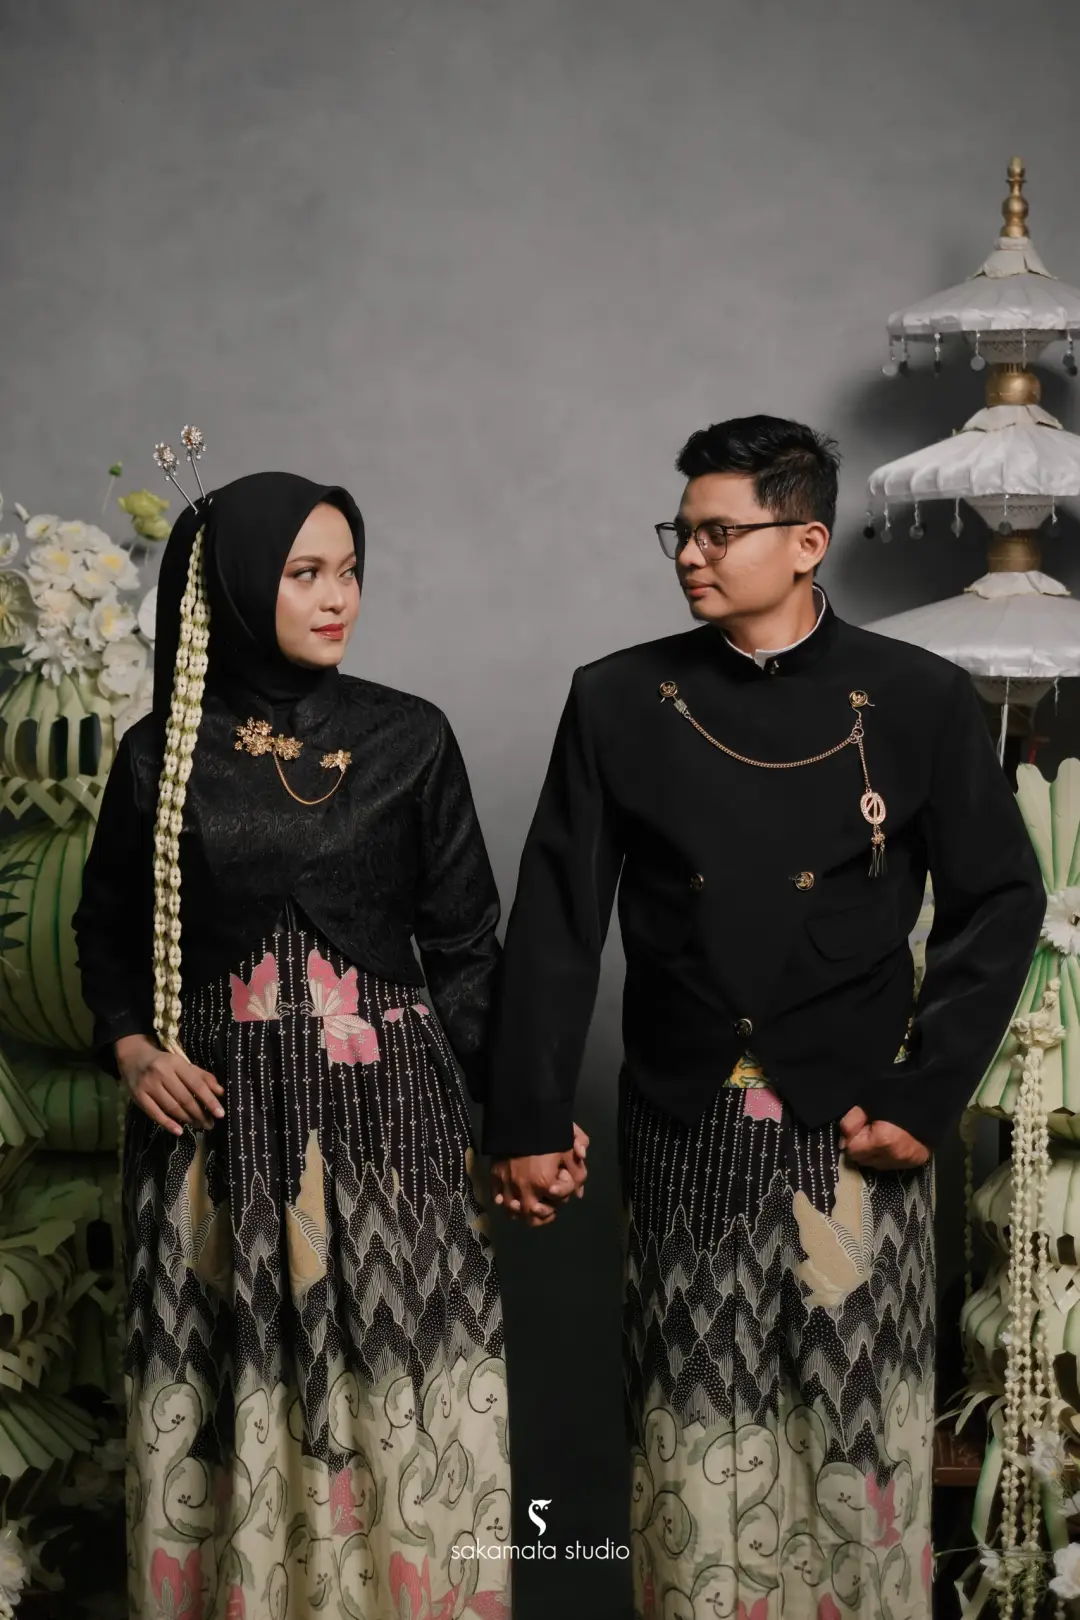
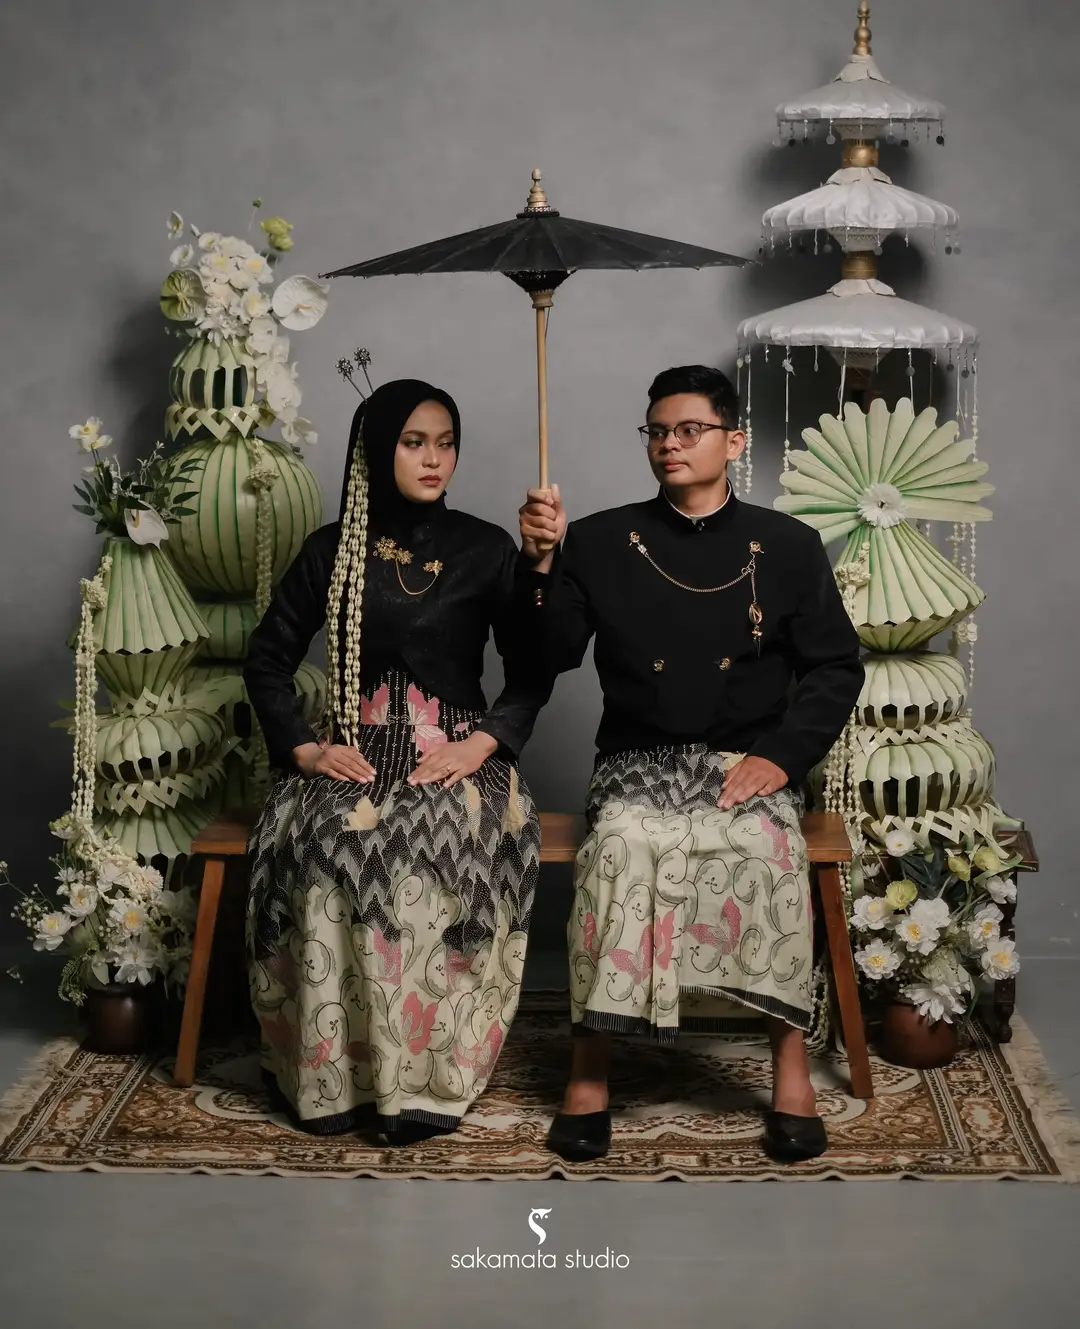
[feature] v3 - revisi 4

diff --git a/index.html b/index.html
@@ -30,7 +30,7 @@
 
     <!-- ============ Halaman 1 · Sampul ============ -->
     <section class="page page--cover" id="hal-1" aria-label="Halaman 1 dari 4, sampul">
-      <img class="bg" src="/assets/img/foto/sampul.webp" alt="" width="1080" height="1620" fetchpriority="high">
+      <img class="bg" src="/assets/img/foto/sampul.webp" alt="" width="1080" height="1329" fetchpriority="high">
       <div class="page__body cover">
         <p class="monogram" aria-hidden="true"><span>C</span><span>H</span></p>
         <h1 class="cover__names">The Wedding of<br>Cahaya &amp; Hammam</h1>

diff --git a/v3/index.html b/v3/index.html
@@ -30,7 +30,7 @@
 
     <!-- ============ Halaman 1 · Sampul ============ -->
     <section class="page page--cover" id="hal-1" aria-label="Halaman 1 dari 4, sampul">
-      <img class="bg" src="/assets/img/foto/sampul.webp" alt="" width="1080" height="1620" fetchpriority="high">
+      <img class="bg" src="/assets/img/foto/sampul.webp" alt="" width="1080" height="1329" fetchpriority="high">
       <div class="page__body cover">
         <p class="monogram" aria-hidden="true"><span>C</span><span>H</span></p>
         <h1 class="cover__names">The Wedding of<br>Cahaya &amp; Hammam</h1>

diff --git a/v3/css/style.css b/v3/css/style.css
@@ -197,7 +197,7 @@ img, svg { display: block; }
 
 /* ---------- Halaman 1 · Sampul ---------- */
 
-.page--cover .bg { object-position: 50% 22%; }
+.page--cover .bg { object-position: 50% 0%; }
 .page--cover::after {
   content: "";
   position: absolute;

diff --git a/README.md b/README.md
@@ -72,7 +72,7 @@ Foto asli (Sakamata Studio, 1707x2560) diambil dari undangan Queen Invitation da
 
 | File | Sumber | Ukuran |
 |---|---|---|
-| `sampul.webp` (sampul) | DSCF0962 | lebar 1080, q70 |
+| `sampul.webp` (sampul, latar layar lebar, preview WhatsApp) | DSCF0980 (dari folder Prewedding asli, 18% bagian atas dipotong) | 1080x1329, q70 |
 | `hero.webp` (pembuka hal. 2) | DSCF0996 | lebar 1080, q70 |
 | `simpan-tanggal.webp` (Save the Date) | DSCF0988 | lebar 1080, q70 |
 | `penutup.webp` (latar ayat & hitung mundur, dan penutup) | DSCF1068 | lebar 1080, q70 |
